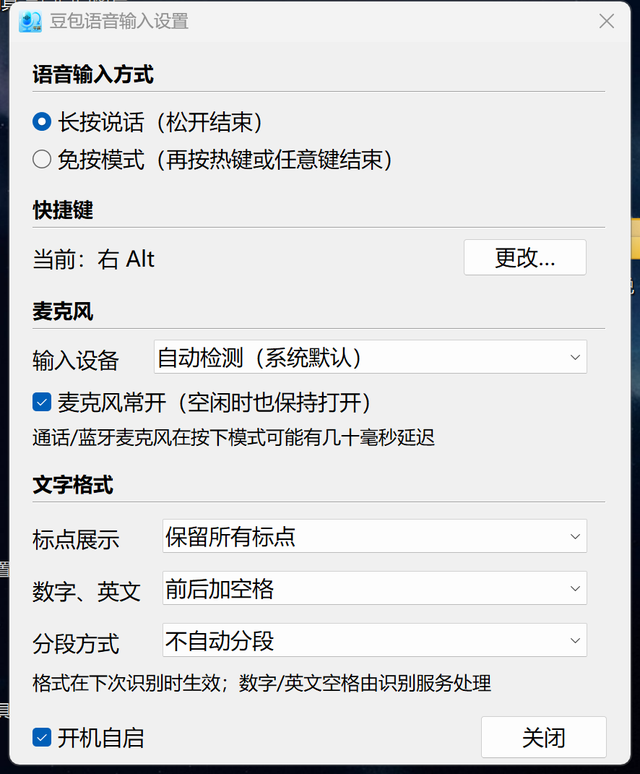
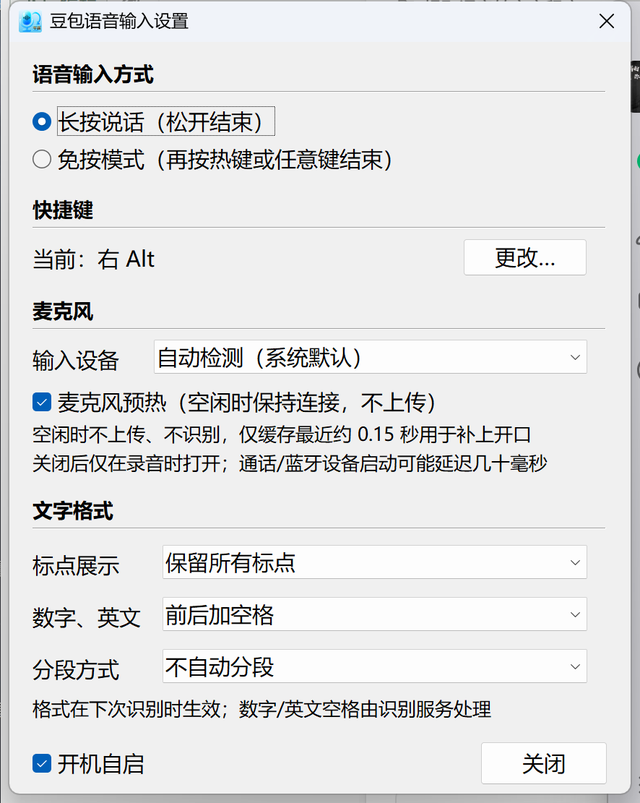
统一麦克风预热文案，避免被理解为持续监听

diff --git a/app/voice_ime.py b/app/voice_ime.py
@@ -1638,7 +1638,7 @@ class Tray:
         auto = MF_STRING | (MF_CHECKED if autostart_enabled() else 0)
         user32.AppendMenuW(hmenu, auto, self.ID_AUTOSTART, "开机自启")
         mic = MF_STRING | (MF_CHECKED if self.app.mic_mode == "always" else 0)
-        user32.AppendMenuW(hmenu, mic, self.ID_MIC_ALWAYS, "麦克风常开")
+        user32.AppendMenuW(hmenu, mic, self.ID_MIC_ALWAYS, "麦克风预热")
         user32.AppendMenuW(hmenu, MF_STRING, self.ID_OPEN_LOG, "查看日志")
         user32.AppendMenuW(hmenu, MF_SEPARATOR, 0, None)
         user32.AppendMenuW(hmenu, MF_STRING, self.ID_QUIT, "退出")
@@ -1696,7 +1696,7 @@ COLOR_BTNFACE = 15
 COLOR_BTNFACE_BRUSH = COLOR_BTNFACE + 1
 
 SETTINGS_WIDTH = 430
-SETTINGS_HEIGHT = 500
+SETTINGS_HEIGHT = 520
 
 
 class Settings:
@@ -1713,6 +1713,7 @@ class Settings:
     ID_HOTKEY_LABEL = 2111
     ID_MIC_HINT = 2112
     ID_FORMAT_HINT = 2113
+    ID_MIC_HINT2 = 2114
 
     PUNCT_ITEMS = [("keep_all", "保留所有标点"),
                    ("remove_trailing", "句末不加标点"),
@@ -1917,27 +1918,29 @@ class Settings:
         combo = self._mk("COMBOBOX", "", CBS_DROPDOWNLIST | CBS_HASSTRINGS | WS_TABSTOP
                          | WS_VSCROLL, M + 84, 206, CW - 98, 220, self.ID_MIC)
         user32.SendMessageW(combo, CB_SETDROPPEDWIDTH, self._s(520), 0)
-        self._mk("BUTTON", "麦克风常开（空闲时也保持打开）", BS_AUTOCHECKBOX | WS_TABSTOP,
-                 M, 238, 340, 22, self.ID_MIC_ALWAYS)
-        self._mk("STATIC", "通话/蓝牙麦克风在按下模式可能有几十毫秒延迟", 0,
-                 M, 264, 340, 18, self.ID_MIC_HINT, small=True)
+        self._mk("BUTTON", "麦克风预热（空闲时保持连接，不上传）", BS_AUTOCHECKBOX | WS_TABSTOP,
+                 M, 238, 398, 22, self.ID_MIC_ALWAYS)
+        self._mk("STATIC", "空闲时不上传、不识别，仅缓存最近约 0.15 秒用于补上开口", 0,
+                 M, 262, 398, 18, self.ID_MIC_HINT, small=True)
+        self._mk("STATIC", "关闭后仅在录音时打开；通话/蓝牙设备启动可能延迟几十毫秒", 0,
+                 M, 282, 398, 18, self.ID_MIC_HINT2, small=True)
 
-        self._section("文字格式", 296, 2205, 2215)
+        self._section("文字格式", 314, 2205, 2215)
         rows = (("标点展示", self.ID_PUNCT, 2206),
                 ("数字、英文", self.ID_SPACE, 2207),
                 ("分段方式", self.ID_PARAGRAPH, 2208))
         for i, (label, cid, _) in enumerate(rows):
-            ry = 330 + i * 36
+            ry = 348 + i * 36
             self._mk("STATIC", label, 0, M, ry + 4, 82, 20, 2209 + i)
             c = self._mk("COMBOBOX", "", CBS_DROPDOWNLIST | CBS_HASSTRINGS | WS_TABSTOP
                          | WS_VSCROLL, M + 90, ry, CW - 104, 200, cid)
             user32.SendMessageW(c, CB_SETDROPPEDWIDTH, self._s(280), 0)
         self._mk("STATIC", "格式在下次识别时生效；数字/英文空格由识别服务处理", 0,
-                 M, 434, 350, 18, self.ID_FORMAT_HINT, small=True)
+                 M, 452, 350, 18, self.ID_FORMAT_HINT, small=True)
 
         self._mk("BUTTON", "开机自启", BS_AUTOCHECKBOX | WS_TABSTOP,
-                 M, 470, 160, 22, self.ID_AUTOSTART)
-        self._mk("BUTTON", "关闭", WS_TABSTOP, M + CW - 88, 466, 88, 30, self.ID_CLOSE)
+                 M, 488, 160, 22, self.ID_AUTOSTART)
+        self._mk("BUTTON", "关闭", WS_TABSTOP, M + CW - 88, 484, 88, 30, self.ID_CLOSE)
 
         for cid, items in ((self.ID_PUNCT, self.PUNCT_ITEMS),
                            (self.ID_SPACE, self.SPACE_ITEMS),
@@ -2177,7 +2180,7 @@ class App:
         self.mic_mode = want
         self._save_option(mic_mode=want)
         log(f"mic mode={want}")
-        self.set_ui("done", "麦克风常开监听" if want == "always" else "麦克风改为按下时才打开",
+        self.set_ui("done", "麦克风已预热" if want == "always" else "麦克风改为录音时打开",
                     auto_hide=2400)
         return True
 

diff --git a/README.md b/README.md
@@ -11,8 +11,8 @@
 - 麦克风可选自动检测或指定设备
 - 文字格式可调：标点展示、汉字与数字/英文之间是否加空格、按句末标点自动分段
 - 输入结果校验：文字没进输入框时自动复制到剪贴板，不会丢
-- 麦克风策略可切换：常开监听（默认，延迟最低），或按下快捷键时才打开、松开后关闭（系统麦克风指示器只在说话时亮）
-- 托盘图标与菜单：设置、设置快捷键、开机自启、麦克风常开、查看日志、退出
+- 麦克风策略可切换：麦克风预热（默认，空闲时保持连接，延迟最低），或仅在录音时打开、结束即关闭（系统麦克风指示器只在录音时亮）
+- 托盘图标与菜单：设置、设置快捷键、开机自启、麦克风预热、查看日志、退出
 - 单实例运行，重复启动会提示
 - 无控制台窗口，开机自启不打扰
 - 绿色单文件，无需安装
@@ -44,7 +44,7 @@
 1. 从 [Releases](../../releases) 下载 `DoubaoVoice.exe`
 2. 双击运行，出现托盘图标即已就绪
 3. 在任意输入框里按住 `右 Alt`（或你设置的快捷键）说话，松开后自动输入；按 `Esc` 取消本次录音
-4. 右击托盘图标选择“设置…”可集中调整输入方式、快捷键、麦克风与文字格式；托盘菜单也可快速切换快捷键、开机自启、麦克风常开或退出
+4. 右击托盘图标选择“设置…”可集中调整输入方式、快捷键、麦克风与文字格式；托盘菜单也可快速切换快捷键、开机自启、麦克风预热或退出
 
 ## 设置
 
@@ -54,7 +54,7 @@
 
 - **语音输入方式**：长按说话（默认）或免按模式。免按模式按一次热键开始录音，再按同一热键、任意字母/数字键、空格/回车或鼠标键结束；单按 Ctrl/Alt/Shift 不会结束；录音中按 `Esc` 取消。
 - **快捷键**：点“更改…”后按下新组合键，必须包含 Ctrl/Alt/Shift，或使用 F1–F12。
-- **麦克风**：输入设备可自动检测（系统默认）或指定，列表只包含 MME / DirectSound 设备。麦克风常开默认开启，空闲时也保持音频流，延迟最低；关闭后只在录音期间打开，系统麦克风指示器随之熄灭，代价是每次开始时几十毫秒的启动延迟。
+- **麦克风**：输入设备可自动检测（系统默认）或指定，列表只包含 MME / DirectSound 设备。**麦克风预热**默认开启：空闲时保持音频流，不上传也不识别，只缓存最近约 0.15 秒用于补上开口瞬间，延迟最低；关闭后只在录音期间打开，系统麦克风指示器随之熄灭，代价是通话/蓝牙设备启动时可能多几十毫秒。
 - **文字格式**（下次识别时生效）：
   - 标点展示：保留所有标点 / 句末不加标点 / 空格代替标点
   - 数字、英文：汉字与数字/英文之间是否留空格，由识别服务处理
@@ -63,7 +63,7 @@
 
 设置保存在 exe 同目录的 `config.json`，对应字段：`voice_mode`（`hold` / `hands_free`）、`hotkey`、`mic_device`、`mic_mode`（`always` / `press`）、`punctuation_mode`（`keep_all` / `remove_trailing` / `space_replace`）、`zh_space`、`paragraph_mode`（`none` / `blank` / `single`）。
 
-麦克风默认常开，Windows 的麦克风使用指示器会一直亮着。不需要时可在设置中取消“麦克风常开”，之后只在按住快捷键期间打开麦克风，松开就关闭，指示器随之熄灭；代价是每次按下要花几十毫秒打开设备（蓝牙耳麦更久），开口的第一瞬间可能漏掉一点。
+麦克风默认预热，Windows 的麦克风使用指示器会一直亮着。它不会在空闲时上传或识别，按下快捷键后才开始录音，并补上开口前的约 0.15 秒缓存。不需要常亮指示器时可在设置中取消“麦克风预热”，之后只在录音期间打开麦克风，松开就关闭，指示器随之熄灭；代价是每次按下要花几十毫秒打开设备（蓝牙耳麦更久），开口的第一瞬间可能漏掉一点。
 
 语音识别在豆包服务器完成，需要联网。如果听不到声音，检查“设置 → 隐私 → 麦克风”是否允许桌面应用访问麦克风。
 
